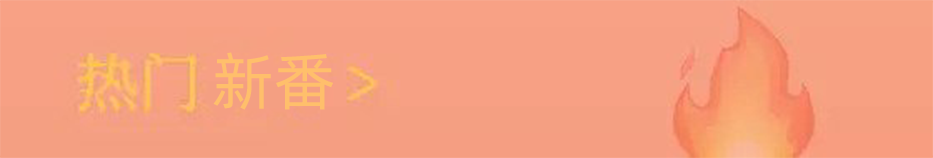
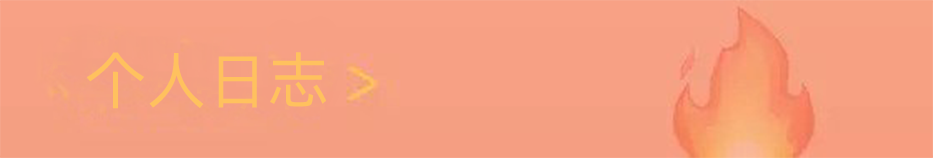
Site updated: 2020-10-05 09:12:42

Changed region(s): [[0.0622, 0.3291, 0.373, 0.7089]]

diff --git a/sw.js b/sw.js
@@ -10,7 +10,7 @@
 
 'use strict';
 
-var precacheConfig = [["/2020/07/01/hexo博客/index.html","8a33c701a91a8e460d6d4b4c0c59e3b0"],["/2020/07/29/简单句的补充/index.html","10b7ca63334cc829480a23f549af8723"],["/2020/08/05/名词性从句/index.html","86e78b99e2a015951726ee2787eb856e"],["/2020/08/14/2020年8月14日下午5点30分/index.html","a7c9c12002f9eb1a7cad87e6a794677b"],["/2020/08/14/定语从句/index.html","5ad6b0f8be20431df2542ca8c4b955d3"],["/2020/08/15/长难句分析/index.html","b383561f01c002fb40a979df4207b0f0"],["/2020/08/18/强调句/index.html","e031ed6d4e29cb426081d715af41ee51"],["/2020/08/31/JAVA编程起步/index.html","c53afb9cfec8aad6f31a517bd1e54cc6"],["/2020/09/02/卡片/index.html","4037d764be3330d8df46dbe0227a6980"],["/2020/09/02/状语从句/index.html","a87668eeb21b1c8c28d1dc7fab1e684a"],["/2020/09/16/MySql数据库/index.html","0f01f798ff8220c6b2ee53fd3e6d0672"],["/2020/09/18/JShell交互式工具/index.html","daf1c2cf2070950dce7825c8d072f1ee"],["/2020/09/19/CLASSPATH环境属性/index.html","1911d071fd79c9b0913910fa69d41ed9"],["/2020/09/19/JAVA代码集合/index.html","26523c03f1cde2b56c5401334ecde897"],["/2020/09/21/MySql表的结构/index.html","b17df33cb8975ea60512efe08f48b330"],["/2020/09/21/程序注释/index.html","8454aa99ff2b1afc275a8cfc04a5a3e7"],["/2020/10/04/分组查询group by/index.html","914f8ff826e4db6ec625dfa2f454ea01"],["/about/index.html","1e95ded013608b70acaa053c3927d00f"],["/archives/2020/07/index.html","66930b7ea02f9953dd59a1a6299f2ac2"],["/archives/2020/08/index.html","8a3a3571de18e576b6a070e52362cc94"],["/archives/2020/09/index.html","8e0310e94bc2b2ef39b879123543bad1"],["/archives/2020/10/index.html","81fc3d767a8a0a66ba320a619e925ec5"],["/archives/2020/index.html","6dc5815f933a90451338234cd3c8d93b"],["/archives/2020/page/2/index.html","6997ced58d93475fc09200152d30cc6d"],["/archives/index.html","7adad8b17a301ad4bafbd6e39c7bd56a"],["/archives/page/2/index.html","a2aa4a80cd1fac94e8bd759f5793985d"],["/assets/css/APlayer.min.css","fbe994054426fadb2dff69d824c5c67a"],["/assets/js/APlayer.min.js","8f1017e7a73737e631ff95fa51e4e7d7"],["/assets/js/DPlayer.min.js","472552604f19815d0a634bd3d953171e"],["/assets/js/Meting.min.js","bfac0368480fd344282ec018d28f173d"],["/categories/Java/index.html","2dba0112cd0244655fd3802582e607a5"],["/categories/MySQL/index.html","8da743f0a2ff04fce016baf687208b67"],["/categories/hexo博客搭建/index.html","0b44111325b6610c37c4e3abbf8ff134"],["/categories/index.html","6a100bc608c1376a031523834ddbe39c"],["/categories/时光留影/index.html","5528fcfd679debb53bfb1d1086eff2c1"],["/categories/知识积累/index.html","4154b2d30a8e25814604880424b67634"],["/categories/策划积分制/index.html","7daebbf2d0bcf3d1bfe7c0552b08d428"],["/css/blog-encrypt.css","ee21c7086a59d52b97a9e7b6240a9414"],["/css/main.css","aa78c9983c7296b90c9237c81bc8bb9f"],["/dist/APlayer.min.css","31cd767f3938bcc69faf252ae100ced3"],["/dist/APlayer.min.js","8f1017e7a73737e631ff95fa51e4e7d7"],["/dist/music.js","a87485aa75e5177ef2b06bf948e31075"],["/figlet/fetch.min.js","350d73710c8e7facd458e74b17b96c27"],["/figlet/figlet.js","0dcd07654130a5de80d46793553ba41b"],["/flash/flash/index.html","9834ff84d2f036ad3729faae5390dc0d"],["/flash/index.html","b631fa6aec2383a9eac8c143554ea038"],["/help/index.html","adc99bc2d088f41d90e666f96563726c"],["/images/algolia_logo.svg","fd40b88ac5370a5353a50b8175c1f367"],["/images/alipay.jpg","d9452503de1e4195e67028f073c5addb"],["/images/apple-touch-icon-next.png","fce961f0bd3cd769bf9c605ae6749bc0"],["/images/avatar.gif","c6e949a6226bcf46b24676d7ff90de88"],["/images/cc-by-nc-nd.svg","1c681acc4a150e7236254c464bb5a797"],["/images/cc-by-nc-sa.svg","12b4b29e8453be5b7828b524d3feabce"],["/images/cc-by-nc.svg","dd9cfe99ed839a4a548114f988d653f4"],["/images/cc-by-nd.svg","2d80546af20128215dc1e23ef42d06c2"],["/images/cc-by-sa.svg","c696b3db81cbbfba32f66c1dc88b909a"],["/images/cc-by.svg","6c4f8422b3725cb9f26b6c00e95fc88b"],["/images/cc-zero.svg","79deee77a07fcb79ff680ac0125eacb9"],["/images/failure.png","38ff0bc871eae50300877ef019eac4b5"],["/images/favicon-16x16-next .png","cb9f23934fe03bc9d284da68e659d847"],["/images/favicon-32x32-next.png","896f4eb152b3798ed17bfc57d1d3e505"],["/images/head.jpg","c6e949a6226bcf46b24676d7ff90de88"],["/images/hot.png","a90be0de558143aabf0acc9cfa0a8688"],["/images/icon-slides.png","5efa36b1d0ef0b5fbb33813582d3b405"],["/images/linkcard.png","f5f5a1ff80b9f2403d76d0092128df19"],["/images/linkcard_bak.png","e1f9f6973a3d2c38b0b2b7317bd7b317"],["/images/loading.gif","c2196de8ba412c60c22ab491af7b1409"],["/images/logo.svg","ddad9027e42111ccd5b466bc18188970"],["/images/placeholder.gif","c2196de8ba412c60c22ab491af7b1409"],["/images/qq.png","3120192dd3ece9c019de0103f39737a0"],["/images/quote-l.svg","1238a4baccd02c6025ec85b58f4282d4"],["/images/quote-r.svg","85787c6fa27965c81f7be70252b43bed"],["/images/read.png","4462c81055423c8d2db56a77b51c5cb8"],["/images/rocket.png","bccdd1a3718ff55c4bac6c7c11e436ee"],["/images/scroll.png","b0605bbb765779aa0d422643acfdc3bf"],["/images/searchicon.png","3d6b5c9d6d6c26a2b76a14b8fdf3438a"],["/images/subscribe.png","641c2d396a563ddafa6fed34a9984a03"],["/images/subscribe1.png","d4accaba47d6e791ce0cd6365735992f"],["/images/subscribe~1.png","e147141e7f29ff2bb46356cc8ca7c831"],["/images/time.png","7412c44c18963032d2d121ce0cb8809f"],["/images/wechat.svg","2ef3f3696267249c4372a5e3f9db36f2"],["/images/wechatpay.jpg","d9dbc02b5f7c379adac84eeb7f6f51b6"],["/images/xiaohutong.png","14589dbb580ac44e4c04e4e94f22ab0f"],["/images/知识技术.png","a12fc41a34e7545b2a2831f565ed03d8"],["/index.html","13026c448f100f10662ea27674357b35"],["/js/cursor/explosion.min.js","f8599b24e09ee8be2d30560755e38236"],["/js/cursor/fireworks.js","2c8509065e42a7bafeb4c599a6a6eaa9"],["/js/cursor/love.min.js","7bcfdb57debd43483174cf9e15ab37cc"],["/js/cursor/text.js","fbe111a3ab258f224f8c4b41c9b3e886"],["/js/src/Valine.min.js","6f1a471af66a428b60016a6e22e2784e"],["/js/src/activate-power-mode.min.js","b1e237aef80ed7a74f443be0d5dbb6e0"],["/js/src/affix.js","683c19859764baf0d17538897ea1eba2"],["/js/src/algolia-search.js","f5fa392318805997089ceb3a925979ba"],["/js/src/bootstrap.js","2a1083772854ae2663748e0a25c17285"],["/js/src/bubble.js","8fdcf8ca4941000b226b2e7535bf1af8"],["/js/src/clipboard-use.js","6245c44a33b72d0b5d04562b6808a309"],["/js/src/clipboard.min.js","f06c52bfddb458ad87349acf9fac06c5"],["/js/src/crash_cheat.js","a9f0920c901ee43e163479111c874163"],["/js/src/exturl.js","2b444179b3145e5007b4d371dac07cd3"],["/js/src/hook-duoshuo.js","45997b0c06abff3cd88efd901f614065"],["/js/src/js.cookie.js","6e9eb1f53afb135aedaf90739c867738"],["/js/src/linkcard.js","da6cb85a2c1d36027ca414459c8dd58f"],["/js/src/motion.js","0f6add86607c451269d0b3d286c84d8b"],["/js/src/post-details.js","b8e8e27c27c697567879c52888ffc24c"],["/js/src/schemes/pisces.js","827b5ad25e1142277c1e7dfe0cacebe5"],["/js/src/scroll-cookie.js","890406ae3539e4721ef5f314542e5e46"],["/js/src/scrollspy.js","fafdd7ab6af233b701506c733910b7f5"],["/js/src/utils.js","ee7e149030931501fa19b0ab74b46b34"],["/js/tagcanvas.js","222f58419252597da4e4b17828824a8f"],["/js/tagcloud.js","4d5b86e9e3c1180eeb33394c7a0937f0"],["/lib/Han/dist/font/han-space.woff","b09f2dd7d3ad8ad07f3b8495133909d9"],["/lib/Han/dist/font/han.woff","e841c6b547bc06a06f60f4de52bf906e"],["/lib/Han/dist/han.css","cfcc552e7aebaef5e2f34aee030b956b"],["/lib/Han/dist/han.js","575b6c1667c01798730fbd972e959c9c"],["/lib/Han/dist/han.min.css","cab466d758269b437167422c4a16b364"],["/lib/Han/dist/han.min.js","96482c9c2b3c5ea9bf5a40db162c7f34"],["/lib/algolia-instant-search/instantsearch.min.css","029a13b44e6807955106ff3c075a02f9"],["/lib/algolia-instant-search/instantsearch.min.js","0db46eba0c8133693ee839507b1612f2"],["/lib/blog-encrypt.js","f1c932790ec55934e04634fd752a3d8e"],["/lib/canvas-nest/canvas-nest.min.js","36e103d2a05bc706bac40f9ab8881eb7"],["/lib/canvas-ribbon/canvas-ribbon.js","16dc214240913551986593808c2efcfc"],["/lib/fancybox/source/blank.gif","325472601571f31e1bf00674c368d335"],["/lib/fancybox/source/fancybox_loading.gif","328cc0f6c78211485058d460e80f4fa8"],["/lib/fancybox/source/fancybox_loading@2x.gif","f92938639fa894a0e8ded1c3368abe98"],["/lib/fancybox/source/fancybox_overlay.png","77aeaa52715b898b73c74d68c630330e"],["/lib/fancybox/source/fancybox_sprite.png","783d4031fe50c3d83c960911e1fbc705"],["/lib/fancybox/source/fancybox_sprite@2x.png","ed9970ce22242421e66ff150aa97fe5f"],["/lib/fancybox/source/helpers/fancybox_buttons.png","b448080f8615e664b7788c7003803b59"],["/lib/fancybox/source/helpers/jquery.fancybox-buttons.css","cac75538c2e3ddfadef839feaca8e356"],["/lib/fancybox/source/helpers/jquery.fancybox-buttons.js","f53c246661fb995a3f12e67fa38e0fa0"],["/lib/fancybox/source/helpers/jquery.fancybox-media.js","c017067f48d97ec4a077ccdf056e6a2e"],["/lib/fancybox/source/helpers/jquery.fancybox-thumbs.css","52ddd84a9f42c1d4cd86d518a7f7e8bc"],["/lib/fancybox/source/helpers/jquery.fancybox-thumbs.js","cf1fc1df534eede4cb460c5cbd71aba6"],["/lib/fancybox/source/jquery.fancybox.css","6c55951ce1e3115711f63f99b7501f3a"],["/lib/fancybox/source/jquery.fancybox.js","921e9cb04ad6e2559869ec845c5be39b"],["/lib/fancybox/source/jquery.fancybox.pack.js","cc9e759f24ba773aeef8a131889d3728"],["/lib/fastclick/README.html","49bce35d3c4c4fca3b85d613eda5bab4"],["/lib/fastclick/lib/fastclick.js","6e9d3b0da74f2a4a7042b494cdaa7c2e"],["/lib/fastclick/lib/fastclick.min.js","a0fc6c24d1f3ff9ac281887c92b24acd"],["/lib/font-awesome/css/font-awesome.css","c495654869785bc3df60216616814ad1"],["/lib/font-awesome/css/font-awesome.min.css","269550530cc127b6aa5a35925a7de6ce"],["/lib/font-awesome/fonts/fontawesome-webfont.eot","674f50d287a8c48dc19ba404d20fe713"],["/lib/font-awesome/fonts/fontawesome-webfont.svg","912ec66d7572ff821749319396470bde"],["/lib/font-awesome/fonts/fontawesome-webfont.ttf","b06871f281fee6b241d60582ae9369b9"],["/lib/font-awesome/fonts/fontawesome-webfont.woff","fee66e712a8a08eef5805a46892932ad"],["/lib/jquery/index.js","32015dd42e9582a80a84736f5d9a44d7"],["/lib/jquery_lazyload/CONTRIBUTING.html","cf417bbf2bf79f0912a74e5446c829df"],["/lib/jquery_lazyload/README.html","657a12483a426e2c250d9bf2dcdb6101"],["/lib/jquery_lazyload/jquery.lazyload.js","8b427f9e86864ee3aaf1ae33e6e14263"],["/lib/jquery_lazyload/jquery.scrollstop.js","f163fd8f02361928853668a96f8a1249"],["/lib/needsharebutton/font-embedded.css","dd8861d10d1ed6b5e0c0011adfb39be9"],["/lib/needsharebutton/needsharebutton.css","30f2f800e13f7b6b83629a4cbd9749ef"],["/lib/needsharebutton/needsharebutton.js","6c6f855f7d50f4bc3c804f52b03bbfbb"],["/lib/pace/pace-theme-barber-shop.min.css","e8dc66cf2d88abc25fbc89b8a0529abb"],["/lib/pace/pace-theme-big-counter.min.css","db2b8fe31e60f19021545277d2f6e05e"],["/lib/pace/pace-theme-bounce.min.css","ad954aa0bace4b213eeb19d6e89a0bda"],["/lib/pace/pace-theme-center-atom.min.css","8f6bc803acefc6f93afc98fb38201456"],["/lib/pace/pace-theme-center-circle.min.css","93c72298781226a80a9c66b27b21a57d"],["/lib/pace/pace-theme-center-radar.min.css","f0099bdd1cd42e9476bd7abc417c0328"],["/lib/pace/pace-theme-center-simple.min.css","eddff4756dbf21dbbff1c543bd894dde"],["/lib/pace/pace-theme-corner-indicator.min.css","776826157cb28ac1ee5e78771292b9ba"],["/lib/pace/pace-theme-fill-left.min.css","965859b39001da08e1e92327fe3d8e12"],["/lib/pace/pace-theme-flash.min.css","aab39b436e1fa0fdc51df06f2d53c38a"],["/lib/pace/pace-theme-loading-bar.min.css","4e05877f1f9efb9c1e7dd75cb78c764f"],["/lib/pace/pace-theme-mac-osx.min.css","29ae030ceaa8158352c5472218375b91"],["/lib/pace/pace-theme-minimal.min.css","f48f04d370993b55a2745e548cc82743"],["/lib/pace/pace.min.js","24d2d5e3e331c4efa3cda1e1851b31a7"],["/lib/three/canvas_lines.min.js","1324174ae6190fbf63b7bf0ad0a8a5bd"],["/lib/three/canvas_sphere.min.js","5c6bc45b137448b5b9df152ccfb2659c"],["/lib/three/three-waves.min.js","41059bd5e5c7aa520b1b411919e5121f"],["/lib/three/three.min.js","3298078bce82bdb1afadf5b1a280915e"],["/lib/ua-parser-js/dist/ua-parser.min.js","a6e833266c4b41fabb9ba94a145322d8"],["/lib/ua-parser-js/dist/ua-parser.pack.js","6b627e4d61a7135952824bb9c1a4a134"],["/lib/velocity/velocity.js","0361fa6dcf4cf4d19c593cdab0937dd0"],["/lib/velocity/velocity.min.js","c1b8d079c7049879838d78e0b389965e"],["/lib/velocity/velocity.ui.js","f55d22cc592c9f8d4ffd3b41a6b90081"],["/lib/velocity/velocity.ui.min.js","444faf512fb24d50a5dec747cbbe39bd"],["/life/index.html","5693377b19e1d27f3738f44f8b69f892"],["/live2d-widget/README.html","db79a3bbfd794941c59b40a2f16ec8b1"],["/live2d-widget/assets/screenshot-1.png","30b70e6cd9be9812adcb347536f0da85"],["/live2d-widget/assets/screenshot-2.png","cca95d7c3ce89495691acc300f63aef0"],["/live2d-widget/assets/screenshot-3.png","637681525dd86db9d1ed20e397498c30"],["/live2d-widget/autoload.js","fdff49a1ea5efd0d3bbd7ac8748b51f2"],["/live2d-widget/demo/demo1.html","a6cda8b39bd7f7afe7ba4b27f5d07dfb"],["/live2d-widget/demo/demo2.html","0575a50b61776525f57f71742be28c28"],["/live2d-widget/live2d.min.js","c1c28f553095fdddb4d2c13a11bd4cb9"],["/live2d-widget/waifu-tips.js","5d4707e2962f19113405c1f4d577bb58"],["/live2d-widget/waifu.css","c4dae5924f2fb0b5ea6ef26aaab80db9"],["/love/index.html","d41d8cd98f00b204e9800998ecf8427e"],["/page/2/index.html","34f77cb554d28396f70a743465246258"],["/sharejs/css/share.min.css","5302d280328f45bd351132938cfeb4c3"],["/sharejs/fonts/iconfont.eot","e83ffaa95463f987abe5db5bbbe303cc"],["/sharejs/fonts/iconfont.svg","eb5d36236b96681900e300ab19c620b6"],["/sharejs/fonts/iconfont.ttf","9ac2cc5ae8616eb50c033525dc14a5eb"],["/sharejs/fonts/iconfont.woff","bf0fc2ec6e2a614635e0ab6e81d059ef"],["/sharejs/js/jquery.share.min.js","1c3bf7d587a82e2611c01a5b284aa756"],["/sharejs/js/social-share.min.js","a11590a40662aa0470da0a9cf725e0be"],["/sw-register.js","b53154784a3071423ed7a4aff22eebf1"],["/tags/index.html","e08246cb699e40df9309d1d07c7904eb"],["/tags/习惯养成/index.html","b909fc617f883f07c380167db5dd85b1"],["/tags/分类/index.html","aca92cd59481dd1c8dd3d89705ee5a95"],["/tags/博客搭建/index.html","1ef3a55e845609cdfa1f7e77a6815d55"],["/tags/知识拓展/index.html","737ca6029afd62c561554ca4f4233766"],["/tags/英语四级/index.html","66a60d9e5cda4cd67f468ba2568d5de8"],["/top/index.html","cf962f1138e10870e8cadb5803768b29"]];
+var precacheConfig = [["/2020/07/01/hexo博客/index.html","8a33c701a91a8e460d6d4b4c0c59e3b0"],["/2020/07/29/简单句的补充/index.html","10b7ca63334cc829480a23f549af8723"],["/2020/08/05/名词性从句/index.html","86e78b99e2a015951726ee2787eb856e"],["/2020/08/14/2020年8月14日下午5点30分/index.html","a7c9c12002f9eb1a7cad87e6a794677b"],["/2020/08/14/定语从句/index.html","5ad6b0f8be20431df2542ca8c4b955d3"],["/2020/08/15/长难句分析/index.html","b383561f01c002fb40a979df4207b0f0"],["/2020/08/18/强调句/index.html","e031ed6d4e29cb426081d715af41ee51"],["/2020/08/31/JAVA编程起步/index.html","c53afb9cfec8aad6f31a517bd1e54cc6"],["/2020/09/02/卡片/index.html","4037d764be3330d8df46dbe0227a6980"],["/2020/09/02/状语从句/index.html","a87668eeb21b1c8c28d1dc7fab1e684a"],["/2020/09/16/MySql数据库/index.html","0f01f798ff8220c6b2ee53fd3e6d0672"],["/2020/09/18/JShell交互式工具/index.html","daf1c2cf2070950dce7825c8d072f1ee"],["/2020/09/19/CLASSPATH环境属性/index.html","1911d071fd79c9b0913910fa69d41ed9"],["/2020/09/19/JAVA代码集合/index.html","26523c03f1cde2b56c5401334ecde897"],["/2020/09/21/MySql表的结构/index.html","b17df33cb8975ea60512efe08f48b330"],["/2020/09/21/程序注释/index.html","8454aa99ff2b1afc275a8cfc04a5a3e7"],["/2020/10/04/分组查询group by/index.html","914f8ff826e4db6ec625dfa2f454ea01"],["/about/index.html","1e95ded013608b70acaa053c3927d00f"],["/archives/2020/07/index.html","66930b7ea02f9953dd59a1a6299f2ac2"],["/archives/2020/08/index.html","8a3a3571de18e576b6a070e52362cc94"],["/archives/2020/09/index.html","8e0310e94bc2b2ef39b879123543bad1"],["/archives/2020/10/index.html","81fc3d767a8a0a66ba320a619e925ec5"],["/archives/2020/index.html","6dc5815f933a90451338234cd3c8d93b"],["/archives/2020/page/2/index.html","6997ced58d93475fc09200152d30cc6d"],["/archives/index.html","7adad8b17a301ad4bafbd6e39c7bd56a"],["/archives/page/2/index.html","a2aa4a80cd1fac94e8bd759f5793985d"],["/assets/css/APlayer.min.css","fbe994054426fadb2dff69d824c5c67a"],["/assets/js/APlayer.min.js","8f1017e7a73737e631ff95fa51e4e7d7"],["/assets/js/DPlayer.min.js","472552604f19815d0a634bd3d953171e"],["/assets/js/Meting.min.js","bfac0368480fd344282ec018d28f173d"],["/categories/Java/index.html","2dba0112cd0244655fd3802582e607a5"],["/categories/MySQL/index.html","8da743f0a2ff04fce016baf687208b67"],["/categories/hexo博客搭建/index.html","0b44111325b6610c37c4e3abbf8ff134"],["/categories/index.html","6a100bc608c1376a031523834ddbe39c"],["/categories/时光留影/index.html","5528fcfd679debb53bfb1d1086eff2c1"],["/categories/知识积累/index.html","4154b2d30a8e25814604880424b67634"],["/categories/策划积分制/index.html","7daebbf2d0bcf3d1bfe7c0552b08d428"],["/css/blog-encrypt.css","ee21c7086a59d52b97a9e7b6240a9414"],["/css/main.css","aa78c9983c7296b90c9237c81bc8bb9f"],["/dist/APlayer.min.css","31cd767f3938bcc69faf252ae100ced3"],["/dist/APlayer.min.js","8f1017e7a73737e631ff95fa51e4e7d7"],["/dist/music.js","a87485aa75e5177ef2b06bf948e31075"],["/figlet/fetch.min.js","350d73710c8e7facd458e74b17b96c27"],["/figlet/figlet.js","0dcd07654130a5de80d46793553ba41b"],["/flash/flash/index.html","9834ff84d2f036ad3729faae5390dc0d"],["/flash/index.html","b631fa6aec2383a9eac8c143554ea038"],["/help/index.html","adc99bc2d088f41d90e666f96563726c"],["/images/algolia_logo.svg","fd40b88ac5370a5353a50b8175c1f367"],["/images/alipay.jpg","d9452503de1e4195e67028f073c5addb"],["/images/apple-touch-icon-next.png","fce961f0bd3cd769bf9c605ae6749bc0"],["/images/avatar.gif","c6e949a6226bcf46b24676d7ff90de88"],["/images/cc-by-nc-nd.svg","1c681acc4a150e7236254c464bb5a797"],["/images/cc-by-nc-sa.svg","12b4b29e8453be5b7828b524d3feabce"],["/images/cc-by-nc.svg","dd9cfe99ed839a4a548114f988d653f4"],["/images/cc-by-nd.svg","2d80546af20128215dc1e23ef42d06c2"],["/images/cc-by-sa.svg","c696b3db81cbbfba32f66c1dc88b909a"],["/images/cc-by.svg","6c4f8422b3725cb9f26b6c00e95fc88b"],["/images/cc-zero.svg","79deee77a07fcb79ff680ac0125eacb9"],["/images/failure.png","38ff0bc871eae50300877ef019eac4b5"],["/images/favicon-16x16-next .png","cb9f23934fe03bc9d284da68e659d847"],["/images/favicon-32x32-next.png","896f4eb152b3798ed17bfc57d1d3e505"],["/images/head.jpg","c6e949a6226bcf46b24676d7ff90de88"],["/images/hot.png","a90be0de558143aabf0acc9cfa0a8688"],["/images/icon-slides.png","5efa36b1d0ef0b5fbb33813582d3b405"],["/images/linkcard.png","f5f5a1ff80b9f2403d76d0092128df19"],["/images/linkcard_bak.png","e1f9f6973a3d2c38b0b2b7317bd7b317"],["/images/loading.gif","c2196de8ba412c60c22ab491af7b1409"],["/images/logo.svg","ddad9027e42111ccd5b466bc18188970"],["/images/placeholder.gif","c2196de8ba412c60c22ab491af7b1409"],["/images/qq.png","3120192dd3ece9c019de0103f39737a0"],["/images/quote-l.svg","1238a4baccd02c6025ec85b58f4282d4"],["/images/quote-r.svg","85787c6fa27965c81f7be70252b43bed"],["/images/read.png","4462c81055423c8d2db56a77b51c5cb8"],["/images/rocket.png","bccdd1a3718ff55c4bac6c7c11e436ee"],["/images/scroll.png","b0605bbb765779aa0d422643acfdc3bf"],["/images/searchicon.png","3d6b5c9d6d6c26a2b76a14b8fdf3438a"],["/images/subscribe.png","641c2d396a563ddafa6fed34a9984a03"],["/images/subscribe1.png","d4accaba47d6e791ce0cd6365735992f"],["/images/subscribe~1.png","e147141e7f29ff2bb46356cc8ca7c831"],["/images/time.png","7412c44c18963032d2d121ce0cb8809f"],["/images/wechat.svg","2ef3f3696267249c4372a5e3f9db36f2"],["/images/wechatpay.jpg","d9dbc02b5f7c379adac84eeb7f6f51b6"],["/images/xiaohutong.png","14589dbb580ac44e4c04e4e94f22ab0f"],["/images/知识技术.png","a12fc41a34e7545b2a2831f565ed03d8"],["/index.html","13026c448f100f10662ea27674357b35"],["/js/cursor/explosion.min.js","f8599b24e09ee8be2d30560755e38236"],["/js/cursor/fireworks.js","2c8509065e42a7bafeb4c599a6a6eaa9"],["/js/cursor/love.min.js","7bcfdb57debd43483174cf9e15ab37cc"],["/js/cursor/text.js","fbe111a3ab258f224f8c4b41c9b3e886"],["/js/src/Valine.min.js","6f1a471af66a428b60016a6e22e2784e"],["/js/src/activate-power-mode.min.js","b1e237aef80ed7a74f443be0d5dbb6e0"],["/js/src/affix.js","683c19859764baf0d17538897ea1eba2"],["/js/src/algolia-search.js","f5fa392318805997089ceb3a925979ba"],["/js/src/bootstrap.js","2a1083772854ae2663748e0a25c17285"],["/js/src/bubble.js","8fdcf8ca4941000b226b2e7535bf1af8"],["/js/src/clipboard-use.js","6245c44a33b72d0b5d04562b6808a309"],["/js/src/clipboard.min.js","f06c52bfddb458ad87349acf9fac06c5"],["/js/src/crash_cheat.js","a9f0920c901ee43e163479111c874163"],["/js/src/exturl.js","2b444179b3145e5007b4d371dac07cd3"],["/js/src/hook-duoshuo.js","45997b0c06abff3cd88efd901f614065"],["/js/src/js.cookie.js","6e9eb1f53afb135aedaf90739c867738"],["/js/src/linkcard.js","da6cb85a2c1d36027ca414459c8dd58f"],["/js/src/motion.js","0f6add86607c451269d0b3d286c84d8b"],["/js/src/post-details.js","b8e8e27c27c697567879c52888ffc24c"],["/js/src/schemes/pisces.js","827b5ad25e1142277c1e7dfe0cacebe5"],["/js/src/scroll-cookie.js","890406ae3539e4721ef5f314542e5e46"],["/js/src/scrollspy.js","fafdd7ab6af233b701506c733910b7f5"],["/js/src/utils.js","ee7e149030931501fa19b0ab74b46b34"],["/js/tagcanvas.js","222f58419252597da4e4b17828824a8f"],["/js/tagcloud.js","4d5b86e9e3c1180eeb33394c7a0937f0"],["/lib/Han/dist/font/han-space.woff","b09f2dd7d3ad8ad07f3b8495133909d9"],["/lib/Han/dist/font/han.woff","e841c6b547bc06a06f60f4de52bf906e"],["/lib/Han/dist/han.css","cfcc552e7aebaef5e2f34aee030b956b"],["/lib/Han/dist/han.js","575b6c1667c01798730fbd972e959c9c"],["/lib/Han/dist/han.min.css","cab466d758269b437167422c4a16b364"],["/lib/Han/dist/han.min.js","96482c9c2b3c5ea9bf5a40db162c7f34"],["/lib/algolia-instant-search/instantsearch.min.css","029a13b44e6807955106ff3c075a02f9"],["/lib/algolia-instant-search/instantsearch.min.js","0db46eba0c8133693ee839507b1612f2"],["/lib/blog-encrypt.js","f1c932790ec55934e04634fd752a3d8e"],["/lib/canvas-nest/canvas-nest.min.js","36e103d2a05bc706bac40f9ab8881eb7"],["/lib/canvas-ribbon/canvas-ribbon.js","16dc214240913551986593808c2efcfc"],["/lib/fancybox/source/blank.gif","325472601571f31e1bf00674c368d335"],["/lib/fancybox/source/fancybox_loading.gif","328cc0f6c78211485058d460e80f4fa8"],["/lib/fancybox/source/fancybox_loading@2x.gif","f92938639fa894a0e8ded1c3368abe98"],["/lib/fancybox/source/fancybox_overlay.png","77aeaa52715b898b73c74d68c630330e"],["/lib/fancybox/source/fancybox_sprite.png","783d4031fe50c3d83c960911e1fbc705"],["/lib/fancybox/source/fancybox_sprite@2x.png","ed9970ce22242421e66ff150aa97fe5f"],["/lib/fancybox/source/helpers/fancybox_buttons.png","b448080f8615e664b7788c7003803b59"],["/lib/fancybox/source/helpers/jquery.fancybox-buttons.css","cac75538c2e3ddfadef839feaca8e356"],["/lib/fancybox/source/helpers/jquery.fancybox-buttons.js","f53c246661fb995a3f12e67fa38e0fa0"],["/lib/fancybox/source/helpers/jquery.fancybox-media.js","c017067f48d97ec4a077ccdf056e6a2e"],["/lib/fancybox/source/helpers/jquery.fancybox-thumbs.css","52ddd84a9f42c1d4cd86d518a7f7e8bc"],["/lib/fancybox/source/helpers/jquery.fancybox-thumbs.js","cf1fc1df534eede4cb460c5cbd71aba6"],["/lib/fancybox/source/jquery.fancybox.css","6c55951ce1e3115711f63f99b7501f3a"],["/lib/fancybox/source/jquery.fancybox.js","921e9cb04ad6e2559869ec845c5be39b"],["/lib/fancybox/source/jquery.fancybox.pack.js","cc9e759f24ba773aeef8a131889d3728"],["/lib/fastclick/README.html","49bce35d3c4c4fca3b85d613eda5bab4"],["/lib/fastclick/lib/fastclick.js","6e9d3b0da74f2a4a7042b494cdaa7c2e"],["/lib/fastclick/lib/fastclick.min.js","a0fc6c24d1f3ff9ac281887c92b24acd"],["/lib/font-awesome/css/font-awesome.css","c495654869785bc3df60216616814ad1"],["/lib/font-awesome/css/font-awesome.min.css","269550530cc127b6aa5a35925a7de6ce"],["/lib/font-awesome/fonts/fontawesome-webfont.eot","674f50d287a8c48dc19ba404d20fe713"],["/lib/font-awesome/fonts/fontawesome-webfont.svg","912ec66d7572ff821749319396470bde"],["/lib/font-awesome/fonts/fontawesome-webfont.ttf","b06871f281fee6b241d60582ae9369b9"],["/lib/font-awesome/fonts/fontawesome-webfont.woff","fee66e712a8a08eef5805a46892932ad"],["/lib/jquery/index.js","32015dd42e9582a80a84736f5d9a44d7"],["/lib/jquery_lazyload/CONTRIBUTING.html","cf417bbf2bf79f0912a74e5446c829df"],["/lib/jquery_lazyload/README.html","657a12483a426e2c250d9bf2dcdb6101"],["/lib/jquery_lazyload/jquery.lazyload.js","8b427f9e86864ee3aaf1ae33e6e14263"],["/lib/jquery_lazyload/jquery.scrollstop.js","f163fd8f02361928853668a96f8a1249"],["/lib/needsharebutton/font-embedded.css","dd8861d10d1ed6b5e0c0011adfb39be9"],["/lib/needsharebutton/needsharebutton.css","30f2f800e13f7b6b83629a4cbd9749ef"],["/lib/needsharebutton/needsharebutton.js","6c6f855f7d50f4bc3c804f52b03bbfbb"],["/lib/pace/pace-theme-barber-shop.min.css","e8dc66cf2d88abc25fbc89b8a0529abb"],["/lib/pace/pace-theme-big-counter.min.css","db2b8fe31e60f19021545277d2f6e05e"],["/lib/pace/pace-theme-bounce.min.css","ad954aa0bace4b213eeb19d6e89a0bda"],["/lib/pace/pace-theme-center-atom.min.css","8f6bc803acefc6f93afc98fb38201456"],["/lib/pace/pace-theme-center-circle.min.css","93c72298781226a80a9c66b27b21a57d"],["/lib/pace/pace-theme-center-radar.min.css","f0099bdd1cd42e9476bd7abc417c0328"],["/lib/pace/pace-theme-center-simple.min.css","eddff4756dbf21dbbff1c543bd894dde"],["/lib/pace/pace-theme-corner-indicator.min.css","776826157cb28ac1ee5e78771292b9ba"],["/lib/pace/pace-theme-fill-left.min.css","965859b39001da08e1e92327fe3d8e12"],["/lib/pace/pace-theme-flash.min.css","aab39b436e1fa0fdc51df06f2d53c38a"],["/lib/pace/pace-theme-loading-bar.min.css","4e05877f1f9efb9c1e7dd75cb78c764f"],["/lib/pace/pace-theme-mac-osx.min.css","29ae030ceaa8158352c5472218375b91"],["/lib/pace/pace-theme-minimal.min.css","f48f04d370993b55a2745e548cc82743"],["/lib/pace/pace.min.js","24d2d5e3e331c4efa3cda1e1851b31a7"],["/lib/three/canvas_lines.min.js","1324174ae6190fbf63b7bf0ad0a8a5bd"],["/lib/three/canvas_sphere.min.js","5c6bc45b137448b5b9df152ccfb2659c"],["/lib/three/three-waves.min.js","41059bd5e5c7aa520b1b411919e5121f"],["/lib/three/three.min.js","3298078bce82bdb1afadf5b1a280915e"],["/lib/ua-parser-js/dist/ua-parser.min.js","a6e833266c4b41fabb9ba94a145322d8"],["/lib/ua-parser-js/dist/ua-parser.pack.js","6b627e4d61a7135952824bb9c1a4a134"],["/lib/velocity/velocity.js","0361fa6dcf4cf4d19c593cdab0937dd0"],["/lib/velocity/velocity.min.js","c1b8d079c7049879838d78e0b389965e"],["/lib/velocity/velocity.ui.js","f55d22cc592c9f8d4ffd3b41a6b90081"],["/lib/velocity/velocity.ui.min.js","444faf512fb24d50a5dec747cbbe39bd"],["/life/index.html","5693377b19e1d27f3738f44f8b69f892"],["/live2d-widget/README.html","db79a3bbfd794941c59b40a2f16ec8b1"],["/live2d-widget/assets/screenshot-1.png","30b70e6cd9be9812adcb347536f0da85"],["/live2d-widget/assets/screenshot-2.png","cca95d7c3ce89495691acc300f63aef0"],["/live2d-widget/assets/screenshot-3.png","637681525dd86db9d1ed20e397498c30"],["/live2d-widget/autoload.js","fdff49a1ea5efd0d3bbd7ac8748b51f2"],["/live2d-widget/demo/demo1.html","a6cda8b39bd7f7afe7ba4b27f5d07dfb"],["/live2d-widget/demo/demo2.html","0575a50b61776525f57f71742be28c28"],["/live2d-widget/live2d.min.js","c1c28f553095fdddb4d2c13a11bd4cb9"],["/live2d-widget/waifu-tips.js","5d4707e2962f19113405c1f4d577bb58"],["/live2d-widget/waifu.css","c4dae5924f2fb0b5ea6ef26aaab80db9"],["/love/index.html","d41d8cd98f00b204e9800998ecf8427e"],["/page/2/index.html","34f77cb554d28396f70a743465246258"],["/sharejs/css/share.min.css","5302d280328f45bd351132938cfeb4c3"],["/sharejs/fonts/iconfont.eot","e83ffaa95463f987abe5db5bbbe303cc"],["/sharejs/fonts/iconfont.svg","eb5d36236b96681900e300ab19c620b6"],["/sharejs/fonts/iconfont.ttf","9ac2cc5ae8616eb50c033525dc14a5eb"],["/sharejs/fonts/iconfont.woff","bf0fc2ec6e2a614635e0ab6e81d059ef"],["/sharejs/js/jquery.share.min.js","1c3bf7d587a82e2611c01a5b284aa756"],["/sharejs/js/social-share.min.js","a11590a40662aa0470da0a9cf725e0be"],["/sw-register.js","4e49d4124fee9e7a8ebb3f5ea99ad507"],["/tags/index.html","e08246cb699e40df9309d1d07c7904eb"],["/tags/习惯养成/index.html","b909fc617f883f07c380167db5dd85b1"],["/tags/分类/index.html","aca92cd59481dd1c8dd3d89705ee5a95"],["/tags/博客搭建/index.html","1ef3a55e845609cdfa1f7e77a6815d55"],["/tags/知识拓展/index.html","737ca6029afd62c561554ca4f4233766"],["/tags/英语四级/index.html","66a60d9e5cda4cd67f468ba2568d5de8"],["/top/index.html","cf962f1138e10870e8cadb5803768b29"]];
 var cacheName = 'sw-precache-v3--' + (self.registration ? self.registration.scope : '');
 var firstRegister = 1; // 默认1是首次安装SW， 0是SW更新
 

diff --git a/index.html b/index.html
@@ -712,6 +712,12 @@ var _hmt = _hmt || [];
         <li data-target="#myCarousel" data-slide-to="0"></li>
         
       
+        <li data-target="#myCarousel" data-slide-to="1"></li>
+        
+      
+        <li data-target="#myCarousel" data-slide-to="2"></li>
+        
+      
       </ol>
 
       <!-- 轮播（Carousel）项目 -->
@@ -719,12 +725,24 @@ var _hmt = _hmt || [];
        
        
           
-          <a class="item active" href="https://gylqdm.gitee.io/2020/07/16/2020-7-16/" target="_blank" style="height: 100%;">
+          <a class="item active" href="https://gylq.gitee.io/time/" target="_blank" style="height: 100%;">
             
-            <img src="https://s1.ax1x.com/2020/07/16/UB8doR.png" class="nofancybox"  style="width: 100%; height: 100%" >
+            <img src="https://s1.ax1x.com/2020/10/05/0JTZj0.md.png" class="nofancybox"  style="width: 100%; height: 100%" >
           </a>
           
           
+      
+          
+            <a class="item" href="http://gylq.gitee.io/daily/" target="_blank" style="height: 100%;">
+              <img src="https://s1.ax1x.com/2020/10/05/0JTE3n.md.png" class="nofancybox"  style="width: 100%; height: 100%;" >
+            </a>
+        
+      
+          
+            <a class="item" href="https://gylq.gitee.io/" target="_blank" style="height: 100%;">
+              <img src="https://s1.ax1x.com/2020/10/05/0JTMEF.png" class="nofancybox"  style="width: 100%; height: 100%;" >
+            </a>
+        
       
       </div>
 
@@ -749,17 +767,17 @@ var _hmt = _hmt || [];
        <!-- <iframe allowtransparency="true" frameborder="0" width="290" height="75" scrolling="no" src="//tianqi.2345.com/plugin/widget/index.htm?s=2&z=2&t=0&v=0&d=2&bd=0&k=000000&f=&ltf=009944&htf=cc0000&q=1&e=1&a=1&c=54511&w=290&h=75&align=left"></iframe> -->
        <iframe allowtransparency="true" frameborder="0" width="300" height="55" scrolling="no" src="//tianqi.2345.com/plugin/widget/index.htm?s=2&z=3&t=1&v=2&d=1&bd=0&k=000000&f=&ltf=009944&htf=cc0000&q=1&e=1&a=1&c=54511&w=300&h=55&align=left"></iframe>
 
-  	   <!-- 热门新番 -->
+  	   <!-- 时光留影 -->
   	   <div class="my-carousel">
          <a href="http://gylq.gitee.io/anime/" target="_blank">
-            <img class="right-siders nofancybox" src="https://s1.ax1x.com/2020/07/26/apzFkd.md.png" width="100%"/>
+            <img class="right-siders nofancybox" src="https://s1.ax1x.com/2020/07/26/apz9mD.jpg" width="100%"/>
          </a>
   	   </div>
 
-  	   <!-- 时光留影 -->
+  	   <!-- 个人日志-->
   	   <div class="my-carousel">
          <a href="http://gylq.gitee.io/daily/" target="_blank">
-           <img class="right-siders nofancybox" src="https://s1.ax1x.com/2020/07/26/apz9mD.jpg"/>
+           <img class="right-siders nofancybox" src="https://s1.ax1x.com/2020/10/05/0JoB60.png"/>
          </a>
   	   </div>
 
@@ -4322,4 +4340,5 @@ return(false);
     <script src="https://player.lmih.cn/player/js/player.js" id="myhk" key="159368326389" m="1"></script>
  
 
-<script async>window.onload=function(){var a=document.createElement('script'),b=document.getElementsByTagName('script')[0];a.type='text/javascript',a.async=!0,a.src='/sw-register.js?v='+Date.now(),b.parentNode.insertBefore(a,b)};</script></body></html>
+</body>
+</html>

diff --git a/page/2/index.html b/page/2/index.html
@@ -712,6 +712,12 @@ var _hmt = _hmt || [];
         <li data-target="#myCarousel" data-slide-to="0"></li>
         
       
+        <li data-target="#myCarousel" data-slide-to="1"></li>
+        
+      
+        <li data-target="#myCarousel" data-slide-to="2"></li>
+        
+      
       </ol>
 
       <!-- 轮播（Carousel）项目 -->
@@ -719,12 +725,24 @@ var _hmt = _hmt || [];
        
        
           
-          <a class="item active" href="https://gylqdm.gitee.io/2020/07/16/2020-7-16/" target="_blank" style="height: 100%;">
+          <a class="item active" href="https://gylq.gitee.io/time/" target="_blank" style="height: 100%;">
             
-            <img src="https://s1.ax1x.com/2020/07/16/UB8doR.png" class="nofancybox"  style="width: 100%; height: 100%" >
+            <img src="https://s1.ax1x.com/2020/10/05/0JTZj0.md.png" class="nofancybox"  style="width: 100%; height: 100%" >
           </a>
           
           
+      
+          
+            <a class="item" href="http://gylq.gitee.io/daily/" target="_blank" style="height: 100%;">
+              <img src="https://s1.ax1x.com/2020/10/05/0JTE3n.md.png" class="nofancybox"  style="width: 100%; height: 100%;" >
+            </a>
+        
+      
+          
+            <a class="item" href="https://gylq.gitee.io/" target="_blank" style="height: 100%;">
+              <img src="https://s1.ax1x.com/2020/10/05/0JTMEF.png" class="nofancybox"  style="width: 100%; height: 100%;" >
+            </a>
+        
       
       </div>
 
@@ -749,17 +767,17 @@ var _hmt = _hmt || [];
        <!-- <iframe allowtransparency="true" frameborder="0" width="290" height="75" scrolling="no" src="//tianqi.2345.com/plugin/widget/index.htm?s=2&z=2&t=0&v=0&d=2&bd=0&k=000000&f=&ltf=009944&htf=cc0000&q=1&e=1&a=1&c=54511&w=290&h=75&align=left"></iframe> -->
        <iframe allowtransparency="true" frameborder="0" width="300" height="55" scrolling="no" src="//tianqi.2345.com/plugin/widget/index.htm?s=2&z=3&t=1&v=2&d=1&bd=0&k=000000&f=&ltf=009944&htf=cc0000&q=1&e=1&a=1&c=54511&w=300&h=55&align=left"></iframe>
 
-  	   <!-- 热门新番 -->
+  	   <!-- 时光留影 -->
   	   <div class="my-carousel">
          <a href="http://gylq.gitee.io/anime/" target="_blank">
-            <img class="right-siders nofancybox" src="https://s1.ax1x.com/2020/07/26/apzFkd.md.png" width="100%"/>
+            <img class="right-siders nofancybox" src="https://s1.ax1x.com/2020/07/26/apz9mD.jpg" width="100%"/>
          </a>
   	   </div>
 
-  	   <!-- 时光留影 -->
+  	   <!-- 个人日志-->
   	   <div class="my-carousel">
          <a href="http://gylq.gitee.io/daily/" target="_blank">
-           <img class="right-siders nofancybox" src="https://s1.ax1x.com/2020/07/26/apz9mD.jpg"/>
+           <img class="right-siders nofancybox" src="https://s1.ax1x.com/2020/10/05/0JoB60.png"/>
          </a>
   	   </div>
 
@@ -3758,4 +3776,5 @@ return(false);
     <script src="https://player.lmih.cn/player/js/player.js" id="myhk" key="159368326389" m="1"></script>
  
 
-<script async>window.onload=function(){var a=document.createElement('script'),b=document.getElementsByTagName('script')[0];a.type='text/javascript',a.async=!0,a.src='/sw-register.js?v='+Date.now(),b.parentNode.insertBefore(a,b)};</script></body></html>
+</body>
+</html>

diff --git a/sw-register.js b/sw-register.js
@@ -1,1 +1,1 @@
-navigator.serviceWorker&&navigator.serviceWorker.register('/sw.js?v=20201005073727').then(function(){navigator.serviceWorker.addEventListener('message',function(a){if('sw.update'===a.data){let a=document.querySelector('meta[name=theme-color]'),b=document.createElement('div');a&&(a.content='#000'),b.innerHTML='<style>.app-refresh{background:#000;height:0;line-height:52px;overflow:hidden;position:fixed;top:0;left:0;right:0;z-index:10001;padding:0 18px;transition:all .3s ease;-webkit-transition:all .3s ease;-moz-transition:all .3s ease;-o-transition:all .3s ease;}.app-refresh-wrap{display:flex;color:#fff;font-size:15px;}.app-refresh-wrap label{flex:1;}.app-refresh-show{height:52px;}</style><div class="app-refresh" id="app-refresh"><div class="app-refresh-wrap" onclick="location.reload()"><label>\u5DF2\u66F4\u65B0\u6700\u65B0\u7248\u672C</label><span>\u70B9\u51FB\u5237\u65B0</span></div></div>',document.body.appendChild(b),setTimeout(function(){document.getElementById('app-refresh').className+=' app-refresh-show'},16)}})});
+navigator.serviceWorker&&navigator.serviceWorker.register('/sw.js?v=20201005091217').then(function(){navigator.serviceWorker.addEventListener('message',function(a){if('sw.update'===a.data){let a=document.querySelector('meta[name=theme-color]'),b=document.createElement('div');a&&(a.content='#000'),b.innerHTML='<style>.app-refresh{background:#000;height:0;line-height:52px;overflow:hidden;position:fixed;top:0;left:0;right:0;z-index:10001;padding:0 18px;transition:all .3s ease;-webkit-transition:all .3s ease;-moz-transition:all .3s ease;-o-transition:all .3s ease;}.app-refresh-wrap{display:flex;color:#fff;font-size:15px;}.app-refresh-wrap label{flex:1;}.app-refresh-show{height:52px;}</style><div class="app-refresh" id="app-refresh"><div class="app-refresh-wrap" onclick="location.reload()"><label>\u5DF2\u66F4\u65B0\u6700\u65B0\u7248\u672C</label><span>\u70B9\u51FB\u5237\u65B0</span></div></div>',document.body.appendChild(b),setTimeout(function(){document.getElementById('app-refresh').className+=' app-refresh-show'},16)}})});
